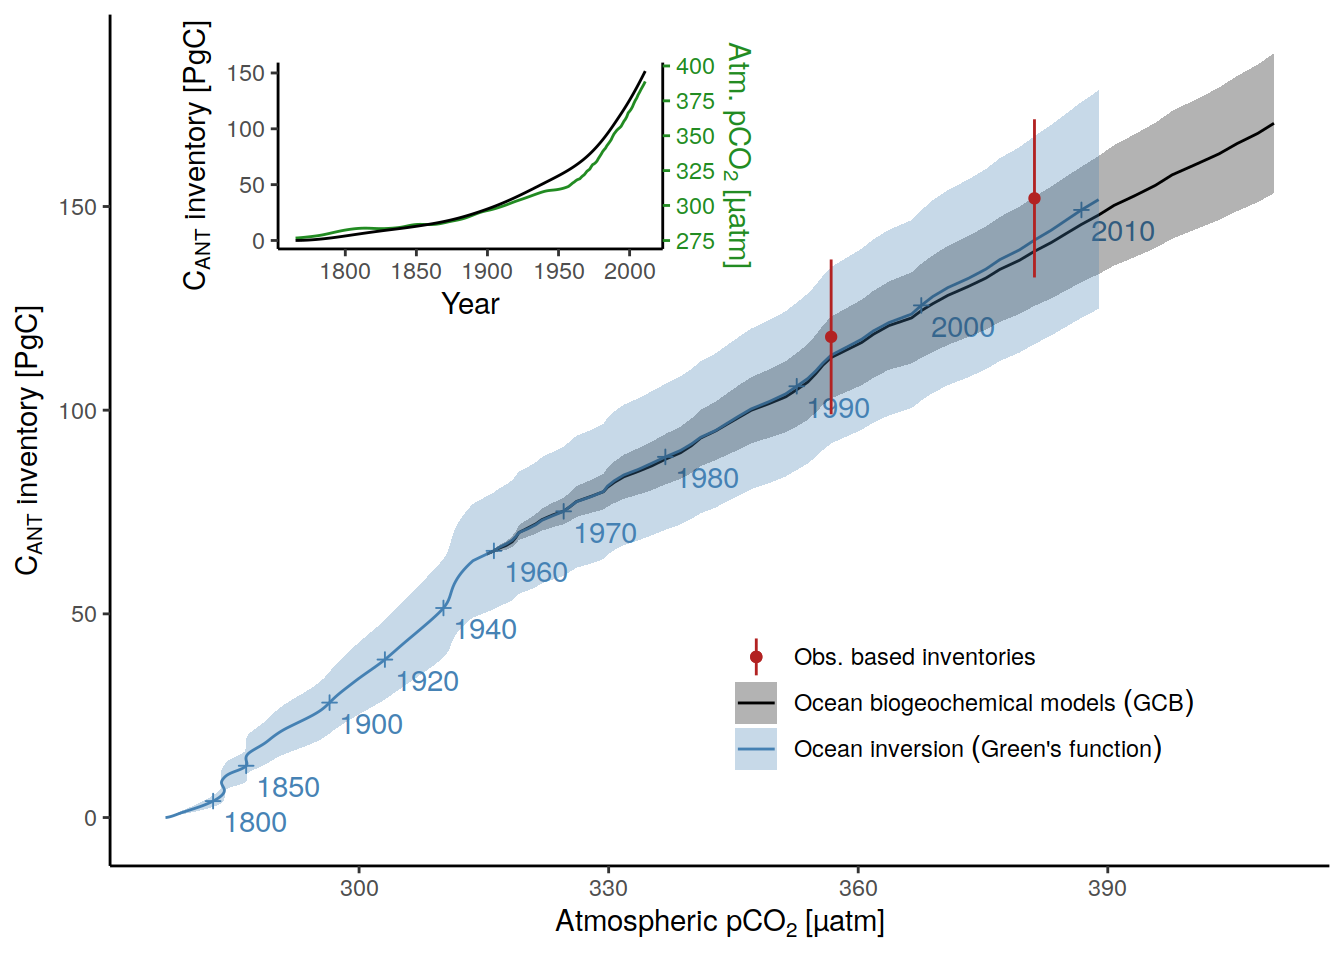
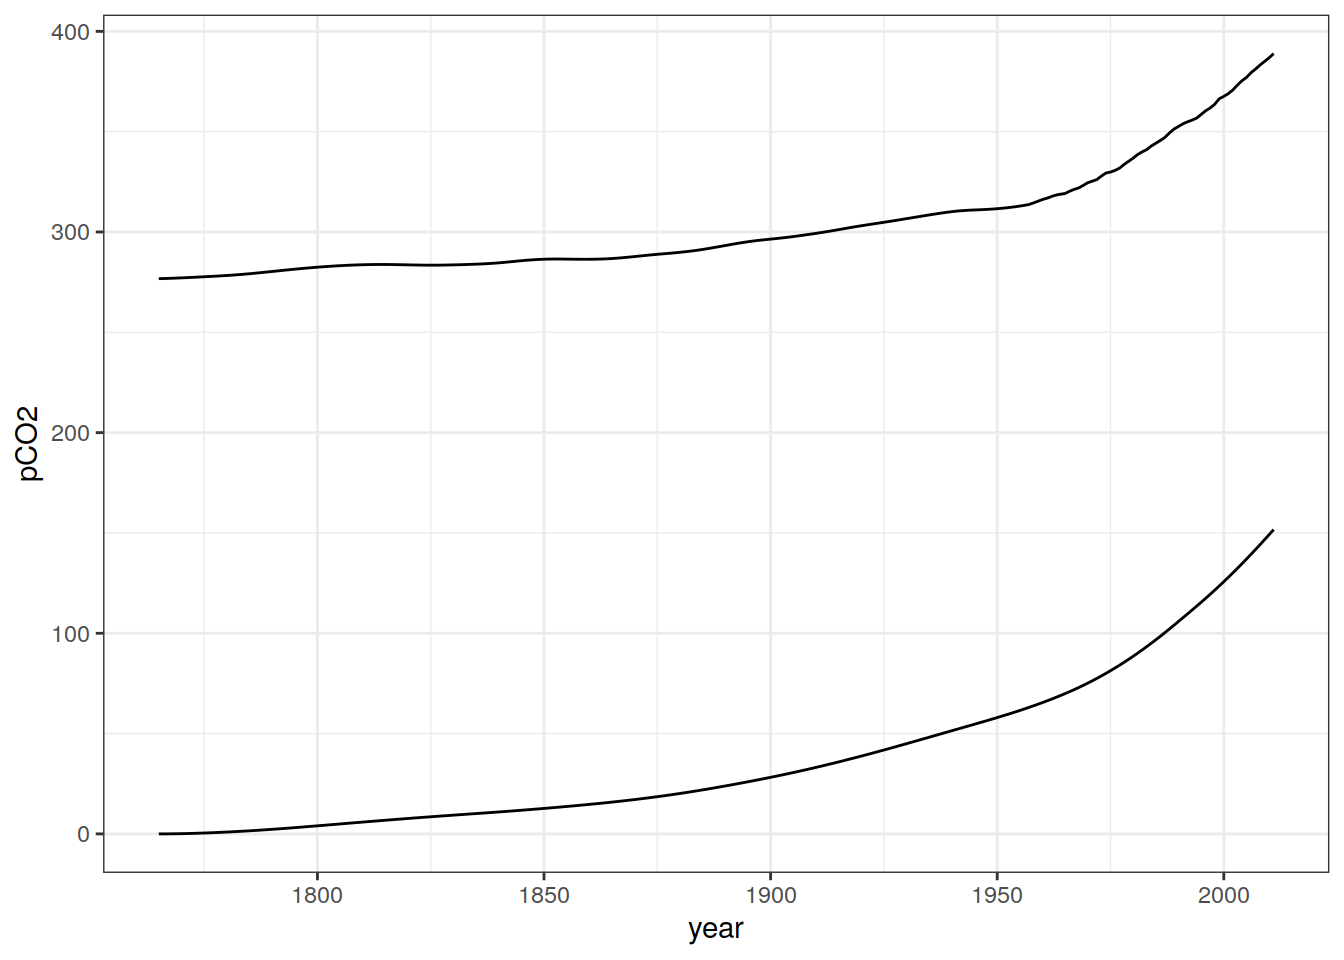
Build site.

diff --git a/docs/interior_storage.html b/docs/interior_storage.html
@@ -494,16 +494,16 @@ This reproducible <a href="https://rmarkdown.rstudio.com">R Markdown</a> analysi
 <div class="panel panel-default">
 <div class="panel-heading">
 <p class="panel-title">
-<a data-toggle="collapse" data-parent="#workflowr-checks" href="#strongRepositoryversionstrongahrefhttpsgithubcomjensdanielmuelleroceancarbonsinkreviewtreee276bea60db7875c7de015111b40132a12a42c42targetblanke276beaa"> <span class="glyphicon glyphicon-ok text-success" aria-hidden="true"></span> <strong>Repository version:</strong> <a href="https://github.com/jens-daniel-mueller/ocean_carbon_sink_review/tree/e276bea60db7875c7de015111b40132a12a42c42" target="_blank">e276bea</a> </a>
+<a data-toggle="collapse" data-parent="#workflowr-checks" href="#strongRepositoryversionstrongahrefhttpsgithubcomjensdanielmuelleroceancarbonsinkreviewtreefa4bef36222f95933057e46db99c6b57dce0f947targetblankfa4bef3a"> <span class="glyphicon glyphicon-ok text-success" aria-hidden="true"></span> <strong>Repository version:</strong> <a href="https://github.com/jens-daniel-mueller/ocean_carbon_sink_review/tree/fa4bef36222f95933057e46db99c6b57dce0f947" target="_blank">fa4bef3</a> </a>
 </p>
 </div>
[2 lines of base64/hex data omitted]
 <div class="panel-body">
 <p>
 Great! You are using Git for version control. Tracking code development and connecting the code version to the results is critical for reproducibility.
 </p>
 <p>
-The results in this page were generated with repository version <a href="https://github.com/jens-daniel-mueller/ocean_carbon_sink_review/tree/e276bea60db7875c7de015111b40132a12a42c42" target="_blank">e276bea</a>. See the <em>Past versions</em> tab to see a history of the changes made to the R Markdown and HTML files.
+The results in this page were generated with repository version <a href="https://github.com/jens-daniel-mueller/ocean_carbon_sink_review/tree/fa4bef36222f95933057e46db99c6b57dce0f947" target="_blank">fa4bef3</a>. See the <em>Past versions</em> tab to see a history of the changes made to the R Markdown and HTML files.
 </p>
 <p>
 Note that you need to be careful to ensure that all relevant files for the analysis have been committed to Git prior to generating the results (you can use <code>wflow_publish</code> or <code>wflow_git_commit</code>). workflowr only checks the R Markdown file, but you know if there are other scripts or data files that it depends on. Below is the status of the Git repository when the results were generated:
@@ -551,6 +551,40 @@ Message
 </tr>
 </thead>
 <tbody>
+<tr>
+<td>
+Rmd
+</td>
+<td>
+<a href="https://github.com/jens-daniel-mueller/ocean_carbon_sink_review/blob/fa4bef36222f95933057e46db99c6b57dce0f947/analysis/interior_storage.Rmd" target="_blank">fa4bef3</a>
+</td>
+<td>
+jens-daniel-mueller
+</td>
+<td>
+2022-05-03
+</td>
+<td>
+update Fig.1a
+</td>
+</tr>
+<tr>
+<td>
+html
+</td>
+<td>
+<a href="https://rawcdn.githack.com/jens-daniel-mueller/ocean_carbon_sink_review/95fb383471787d7c40a736b198d15659b7428d4d/docs/interior_storage.html" target="_blank">95fb383</a>
+</td>
+<td>
+jens-daniel-mueller
+</td>
+<td>
+2022-05-03
+</td>
+<td>
+Build site.
+</td>
+</tr>
 <tr>
 <td>
 Rmd
@@ -2430,6 +2464,17 @@ Date
 <tbody>
 <tr>
 <td>
+<a href="https://github.com/jens-daniel-mueller/ocean_carbon_sink_review/blob/95fb383471787d7c40a736b198d15659b7428d4d/docs/figure/interior_storage.Rmd/khatiwala_vs_models-1.png" target="_blank">95fb383</a>
+</td>
+<td>
+jens-daniel-mueller
+</td>
+<td>
+2022-05-03
+</td>
+</tr>
+<tr>
+<td>
 <a href="https://github.com/jens-daniel-mueller/ocean_carbon_sink_review/blob/45ba9e2217716a7e7cdd1dde13de9d7684850cf8/docs/figure/interior_storage.Rmd/khatiwala_vs_models-1.png" target="_blank">45ba9e2</a>
 </td>
 <td>
@@ -2608,6 +2653,17 @@ Date
 <tbody>
 <tr>
 <td>
+<a href="https://github.com/jens-daniel-mueller/ocean_carbon_sink_review/blob/95fb383471787d7c40a736b198d15659b7428d4d/docs/figure/interior_storage.Rmd/redraw_plot-1.png" target="_blank">95fb383</a>
+</td>
+<td>
+jens-daniel-mueller
+</td>
+<td>
+2022-05-03
+</td>
+</tr>
+<tr>
+<td>
 <a href="https://github.com/jens-daniel-mueller/ocean_carbon_sink_review/blob/45ba9e2217716a7e7cdd1dde13de9d7684850cf8/docs/figure/interior_storage.Rmd/redraw_plot-1.png" target="_blank">45ba9e2</a>
 </td>
 <td>
@@ -2642,28 +2698,72 @@ jens-daniel-mueller
   filter(method %in% c(&quot;Ocean~inversion~(Green*\&quot;&#39;\&quot;*s~\&quot;function\&quot;)&quot;)) %&gt;%
   ggplot() +
   geom_path(aes(year, pCO2)) +
-  geom_path(aes(year, tcant))
-
-beta &lt;- 1.25
+  geom_path(aes(year, tcant))</code></pre>
+<p><img src="figure/interior_storage.Rmd/atm_co2_time_series_inlet-1.png" width="672" style="display: block; margin: auto;" /></p>
+<p>
+<button type="button" class="btn btn-default btn-xs btn-workflowr btn-workflowr-fig" data-toggle="collapse" data-target="#fig-atm_co2_time_series_inlet-1">
+Past versions of atm_co2_time_series_inlet-1.png
+</button>
+</p>
+<div id="fig-atm_co2_time_series_inlet-1" class="collapse">
+<div class="table-responsive">
+<table class="table table-condensed table-hover">
+<thead>
+<tr>
+<th>
+Version
+</th>
+<th>
+Author
+</th>
+<th>
+Date
+</th>
+</tr>
+</thead>
+<tbody>
+<tr>
+<td>
+<a href="https://github.com/jens-daniel-mueller/ocean_carbon_sink_review/blob/95fb383471787d7c40a736b198d15659b7428d4d/docs/figure/interior_storage.Rmd/atm_co2_time_series_inlet-1.png" target="_blank">95fb383</a>
+</td>
+<td>
+jens-daniel-mueller
+</td>
+<td>
+2022-05-03
+</td>
+</tr>
+</tbody>
+</table>
+</div>
+</div>
+<pre class="r"><code>beta &lt;- 1.25
 co2_atm_pi_value &lt;- 275
 tCant_col &lt;- &quot;forestgreen&quot;
 
-g_inset &lt;- tcant %&gt;%
-  filter(method %in% c(&quot;Ocean~inversion~(Green*\&quot;&#39;\&quot;*s~\&quot;function\&quot;)&quot;)) %&gt;% 
+
+g_inset &lt;-
   ggplot() +
-  geom_line(aes(year, (pCO2 - co2_atm_pi_value) * beta),
+  geom_line(data = tcant %&gt;%
+              distinct(year, pCO2),
+            aes(year, (pCO2 - co2_atm_pi_value) * beta),
             col = tCant_col) +
-  geom_path(aes(year, tcant)) +
+  geom_path(data = tcant %&gt;%
+              filter(
+                method %in% c(&quot;Ocean~inversion~(Green*\&quot;&#39;\&quot;*s~\&quot;function\&quot;)&quot;)
+              ),
+            aes(year, tcant)) +
   scale_y_continuous(name = expression(C[ANT] ~ inventory ~ &quot;[PgC]&quot;),
-                     sec.axis = sec_axis( ~ (. / beta + co2_atm_pi_value),
-                                          name = expression(Atm. ~ pCO[2] ~ &quot;[µatm]&quot;))) +
+                     sec.axis = sec_axis(~ (. / beta + co2_atm_pi_value),
+                                         name = expression(Atm. ~ pCO[2] ~ &quot;[µatm]&quot;),
+                                         breaks = seq(280,420,40))) +
   scale_x_continuous(name = &quot;Year&quot;, breaks = seq(1800, 2000, 50)) +
   scale_color_manual(values = &quot;black&quot;) +
   theme_classic() +
   theme(
     axis.title.y.right = element_text(color = tCant_col),
     axis.text.y.right = element_text(color = tCant_col),
-    axis.ticks.y.right = element_line(color = tCant_col), 
+    axis.ticks.y.right = element_line(color = tCant_col),
     legend.background = element_rect(fill = &quot;transparent&quot;),
     plot.background = element_rect(fill = &quot;transparent&quot;,
                                    color = &quot;transparent&quot;),
@@ -2671,12 +2771,14 @@ g_inset &lt;- tcant %&gt;%
     legend.title = element_blank()
   )
 
+g_inset
+
 grid.draw(g)
 vp = viewport(x=.35, y=.8, width=.45, height=.3)
 pushViewport(vp)
 grid.draw(ggplotGrob(g_inset))
 upViewport()</code></pre>
-<p><img src="figure/interior_storage.Rmd/atm_co2_time_series_inlet-1.png" width="672" style="display: block; margin: auto;" /></p>
+<p><img src="figure/interior_storage.Rmd/atm_co2_time_series_inlet-2.png" width="672" style="display: block; margin: auto;" /></p>
 <pre class="r"><code>pdf(here::here(&quot;output/Fig1a.pdf&quot;),
     width = 7,
     height = 5)
